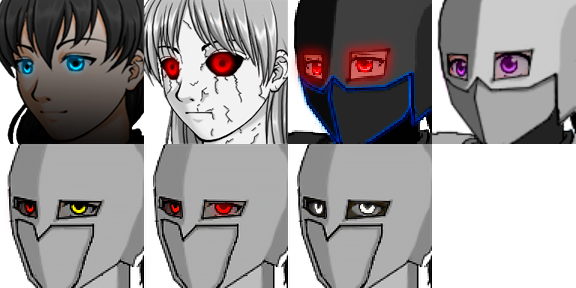
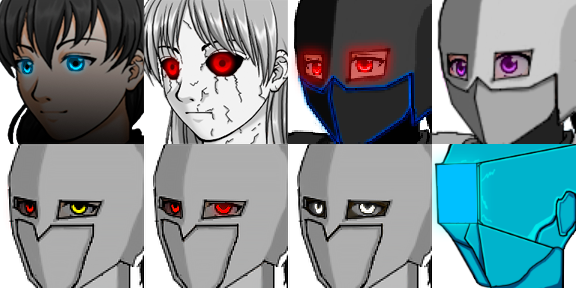
0.4.30.74. Доделан бой с Кошмаром
- Доделан бой с Кошмаром.
- Добавлены лица Голиафом и Кошмаром.
- Добавлены кат-сцены для больницы.

Changed region(s): [[0.75, 0.5, 1.0, 1.0]]

diff --git a/js/plugins.js b/js/plugins.js
@@ -40,7 +40,7 @@ var $plugins =
 {"name":"GALV_LayerGraphics","status":true,"description":"(v.2.0) Create graphic layers for parallax mapping, fog, etc. View the 'Help' document for plugin commands and info.","parameters":{"Tile Size":"48"}},
 {"name":"GALV_EventSpawner","status":true,"description":"(v.1.8) Spawn events from a specified spawn map to a desired location.","parameters":{"Spawn Map Id":"87"}},
 {"name":"CheckEventTriggerTouchAllFollowers","status":true,"description":"","parameters":{}},
-{"name":"BBS_VersionDisplay","status":true,"description":"v1.02 Adds display of the game version to the title screen.\r\nSpecial Thanks to Tsukihime for all the help.\r\nSpecial Thanks to 'Ramza' Michael Sweeney for all the support.\r\n\r\n============================================================================\r\nParameters\r\n============================================================================","parameters":{"Game Version Number":"0.4.30.73","Game Version Font":"","Version Font Size":"20","Show Version Number?":"true","Version Text Color":"white","Version Outline Color":"black","Version Outline Width":"8","Title Italic":"false","Version Text Max Width":"Graphics.width / 3\r"}},
+{"name":"BBS_VersionDisplay","status":true,"description":"v1.02 Adds display of the game version to the title screen.\r\nSpecial Thanks to Tsukihime for all the help.\r\nSpecial Thanks to 'Ramza' Michael Sweeney for all the support.\r\n\r\n============================================================================\r\nParameters\r\n============================================================================","parameters":{"Game Version Number":"0.4.30.74","Game Version Font":"","Version Font Size":"20","Show Version Number?":"true","Version Text Color":"white","Version Outline Color":"black","Version Outline Width":"8","Title Italic":"false","Version Text Max Width":"Graphics.width / 3\r"}},
 {"name":"LocalMap","status":true,"description":"Local map","parameters":{"Command name":"{Карта}","Square size":"144","Default player icon":"LM_Player_Riom","Local maps":"[\"{\\\"Name\\\":\\\"Jagged canyon\\\",\\\"Width\\\":\\\"1\\\",\\\"Height\\\":\\\"3\\\"}\",\"{\\\"Name\\\":\\\"Purgatory\\\",\\\"Width\\\":\\\"3\\\",\\\"Height\\\":\\\"3\\\"}\",\"{\\\"Name\\\":\\\"Jagged_Canyon_(chapter 3)\\\",\\\"Width\\\":\\\"4\\\",\\\"Height\\\":\\\"4\\\"}\",\"{\\\"Name\\\":\\\"Jagged_Canyon_(chapter 4)\\\",\\\"Width\\\":\\\"4\\\",\\\"Height\\\":\\\"3\\\"}\",\"{\\\"Name\\\":\\\"Jagged_Canyon_(chapter 5)\\\",\\\"Width\\\":\\\"8\\\",\\\"Height\\\":\\\"5\\\"}\"]"}},
 {"name":"FilterController","status":true,"description":"FilterController","parameters":{"Use Decimal in Variables":"true","displacementImage":"DisplacementMap","enabledAll-Settings":"","enabledAll-ShowInOptionMenu":"false","enabledAll-Text":"","enabledAll-DefaultValue":"true"}},
 {"name":"GALV_RollCredits","status":true,"description":"(v.1.5) A plugin that calls a new scene to display scrolling information located in an external text file.","parameters":{"Folder":"data","Skippable":"true","Block Skipping":"true","Title Menu":"{Авторы и благодарность}","Title Credits Music":""}},
